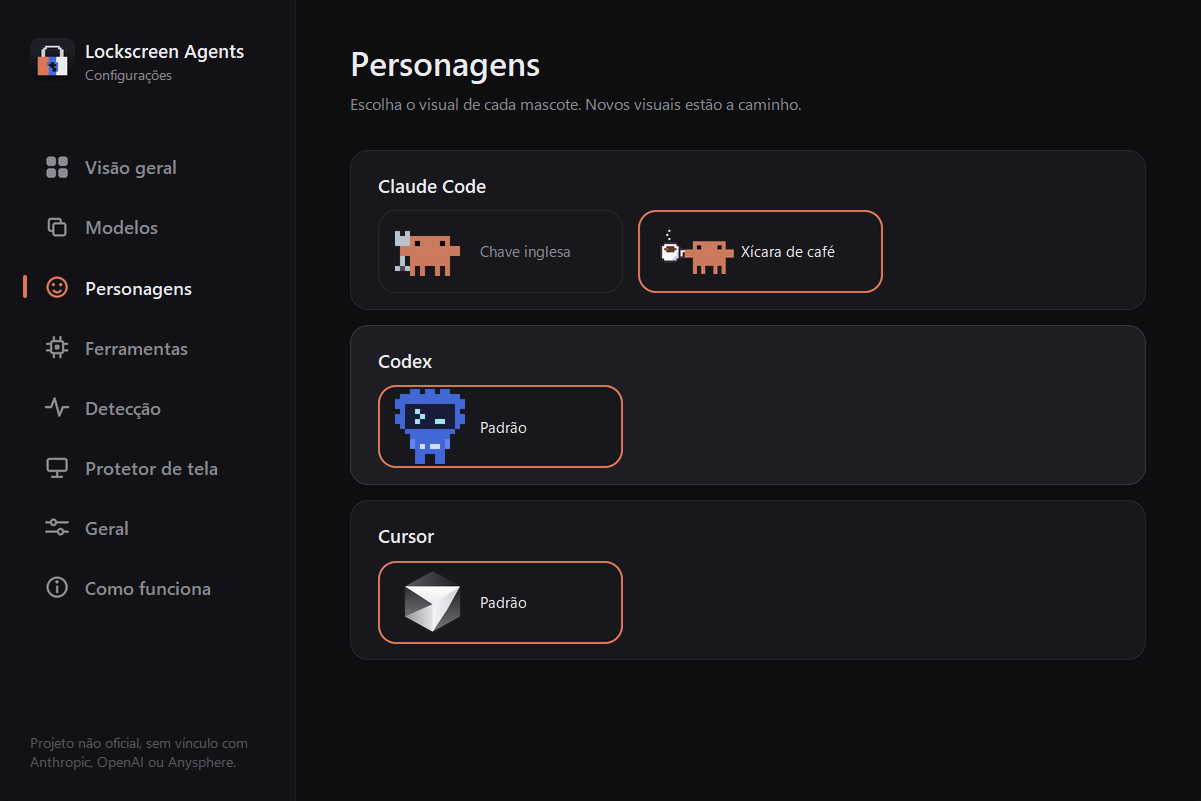
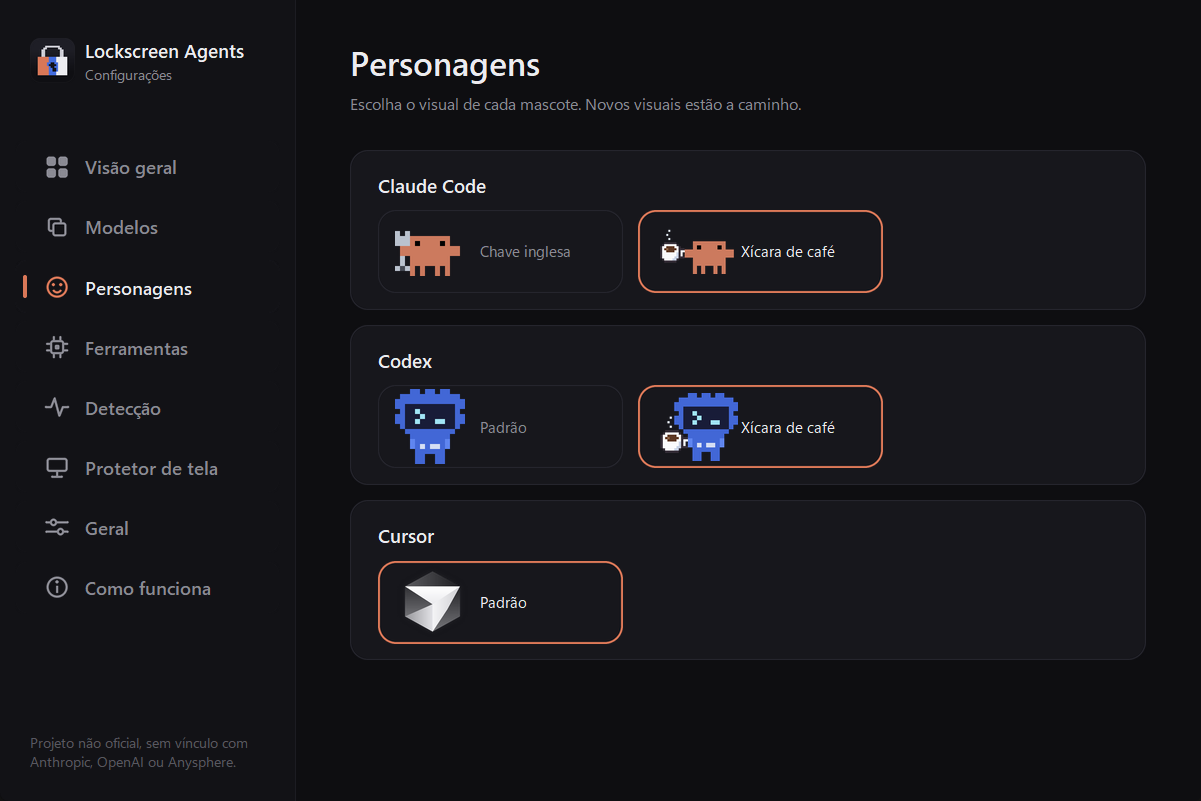
Adiciona o visual de xícara de café para o Codex
- render.py: a xícara passa a ser uma função compartilhada (_draw_cup),
  usada pelo Claude e pelo Codex; o Codex ganha os parâmetros tool e skin
  e uma margem à esquerda para a xícara, que só aparece em uso.
- skins.py, i18n.py: visual "coffee" do Codex, com nome em português e
  inglês; saver.py e settings_ui.py usam o visual escolhido.
- Testes do Codex, README, ARCHITECTURE e captura da página Personagens.

diff --git a/lockscreen_agents/render.py b/lockscreen_agents/render.py
@@ -32,6 +32,23 @@ CODEX_ARM = (96, 134, 240)
 ACCENT = {"claude": CLAUDE_ORANGE, "codex": (122, 160, 255), "cursor": (230, 230, 235)}
 
 
+def _draw_cup(d, hand_x, hand_cy, sub, wiggle):
+    """Xícara de café em pixel-art. A alça fica na altura da mão (`hand_cy`) e encosta no braço
+    (`hand_x`, borda esquerda dele). `sub` é o tamanho de um "pixel" da xícara; `wiggle` (-1 ou 1)
+    é o lado para onde o vapor se inclina."""
+    x0 = hand_x + sub - len(CUP_ART[0]) * sub
+    y0 = int(hand_cy - 5.5 * sub)
+    for y, row in enumerate(CUP_ART):
+        for x, ch in enumerate(row):
+            if ch != ".":
+                d.rectangle([x0 + x * sub, y0 + y * sub, x0 + (x + 1) * sub - 1, y0 + (y + 1) * sub - 1],
+                            fill=CUP_COLORS[ch])
+    cx = x0 + 5 * sub
+    for dx, dyy in ((0, -2), (wiggle, -4), (0, -6)):  # vapor
+        d.rectangle([cx + dx * sub, y0 + dyy * sub, cx + (dx + 1) * sub - 1, y0 + (dyy + 1) * sub - 1],
+                    fill=STEAM)
+
+
 def draw_claude(size=300, step=None, blink=False, tool=True, skin="wrench"):
     """Clawd, o mascote do Claude Code, em pixel art chapada.
 
@@ -67,19 +84,7 @@ def draw_claude(size=300, step=None, blink=False, tool=True, skin="wrench"):
         box(1, 8 + dy, 1, 8 + dy, STEEL_DARK, 0, 0)  # furinho na ponta
 
     if coffee:  # xícara na mão esquerda: o bracinho (desenhado depois) segura a alça
-        sub = max(1, px // 2)  # "pixel" da xícara: meia célula do mascote
-        x0 = ox * px + sub - len(CUP_ART[0]) * sub  # a alça encosta no bracinho
-        y0 = int((ay_l + oy + 1) * px - 5.5 * sub)  # alça na altura do bracinho
-        for y, row in enumerate(CUP_ART):
-            for x, ch in enumerate(row):
-                if ch != ".":
-                    d.rectangle([x0 + x * sub, y0 + y * sub, x0 + (x + 1) * sub - 1, y0 + (y + 1) * sub - 1],
-                                fill=CUP_COLORS[ch])
-        wiggle = 1 if (walking and step % 2) else -1  # vapor que muda de lado a cada passo
-        cx = x0 + 5 * sub
-        for k, (dx, dyy) in enumerate(((0, -2), (wiggle, -4), (0, -6))):
-            d.rectangle([cx + dx * sub, y0 + dyy * sub, cx + (dx + 1) * sub - 1, y0 + (dyy + 1) * sub - 1],
-                        fill=STEAM)
+        _draw_cup(d, ox * px, (ay_l + oy + 1) * px, max(1, px // 2), 1 if (walking and step % 2) else -1)
 
     # corpo
     box(2, 0, 9, 5, CLAUDE_ORANGE)
@@ -100,20 +105,24 @@ def draw_claude(size=300, step=None, blink=False, tool=True, skin="wrench"):
     return img
 
 
-def draw_codex(size=300, step=None, blink=False):
+def draw_codex(size=300, step=None, blink=False, tool=True, skin="default"):
     """Mascote do Codex em pixel art: cabeça de nuvem com tela de terminal (>_),
     corpinho com um >_ no peito, bracinhos e pezinhos.
 
     Grade de 14x15 células. `step` alterna braços e pés (caminhada);
     `blink` apaga o cursor `_` da tela (cursor piscando = trabalhando).
+    `skin` "coffee" põe uma xícara de café na mão esquerda (só com `tool`, ou seja, trabalhando).
     """
-    cols, rows = 14, 15
+    rows = 15
+    coffee = tool and skin == "coffee"
+    ox = 4 if coffee else 0  # a xícara ocupa quatro colunas a mais à esquerda
+    cols = 14 + ox
     px = max(1, size // rows)
     img = Image.new("RGBA", (cols * px, rows * px), (0, 0, 0, 0))
     d = ImageDraw.Draw(img)
 
     def box(x0, y0, x1, y1, color):  # coordenadas inclusivas, em células
-        d.rectangle([x0 * px, y0 * px, (x1 + 1) * px - 1, (y1 + 1) * px - 1], fill=color)
+        d.rectangle([(x0 + ox) * px, y0 * px, (x1 + 1 + ox) * px - 1, (y1 + 1) * px - 1], fill=color)
 
     walking = step is not None
 
@@ -148,6 +157,8 @@ def draw_codex(size=300, step=None, blink=False):
 
     # bracinhos
     ay_l, ay_r = ((10, 11) if step % 2 else (11, 10)) if walking else (10, 10)
+    if coffee:  # xícara na mão esquerda, na frente da nuvem; o bracinho (depois) segura a alça
+        _draw_cup(d, (3 + ox) * px, (ay_l + 1) * px, max(1, px // 2), 1 if (walking and step % 2) else -1)
     box(3, ay_l, 3, ay_l + 1, CODEX_ARM)
     box(10, ay_r, 10, ay_r + 1, CODEX_ARM)
 
@@ -272,7 +283,8 @@ def render(status, step=None, size=(W, H)):
     makers = {
         "claude": lambda: draw_claude(logo, step, tool=state_of(status, "claude") == "working",
                                       skin=settings.get()["skins"]["claude"]),
-        "codex": lambda: draw_codex(logo, step),
+        "codex": lambda: draw_codex(logo, step, tool=state_of(status, "codex") == "working",
+                                    skin=settings.get()["skins"]["codex"]),
         "cursor": lambda: draw_cursor(logo, active=state_of(status, "cursor") == "working", glow=0.6),
     }
     for i, key in enumerate(keys):

diff --git a/tests/test_skins.py b/tests/test_skins.py
@@ -20,7 +20,8 @@ def test_settings_accept_available_skin():
 
 
 def test_settings_reject_unknown_skin():
-    cfg = settings.save({"skins": {"claude": "inexistente", "codex": "coffee"}})
+    # o Cursor ainda não tem visual de café
+    cfg = settings.save({"skins": {"claude": "inexistente", "cursor": "coffee"}})
     assert cfg["skins"] == skins.defaults()
 
 
@@ -35,6 +36,14 @@ def test_coffee_cup_changes_the_drawing():
     assert wrench.tobytes() != coffee.tobytes()
 
 
+def test_codex_coffee_cup_changes_the_drawing():
+    default = render.draw_codex(225, tool=True, skin="default")
+    coffee = render.draw_codex(225, tool=True, skin="coffee")
+    assert default.tobytes() != coffee.tobytes()
+    idle = render.draw_codex(225, tool=False, skin="coffee")
+    assert idle.tobytes() == default.tobytes()  # parado, sem xícara
+
+
 def test_skin_only_shows_while_working():
     idle = render.draw_claude(224, tool=False, skin="coffee")
     assert idle.tobytes() == render.draw_claude(224, tool=False, skin="wrench").tobytes()
@@ -45,3 +54,7 @@ def test_lock_screen_uses_the_chosen_skin():
     before = render.render(status)
     settings.update(skins={"claude": "coffee"})
     assert render.render(status).tobytes() != before.tobytes()
+    working = {"claude": "open", "codex": "working", "cursor": "closed"}
+    before = render.render(working)
+    settings.update(skins={"codex": "coffee"})
+    assert render.render(working).tobytes() != before.tobytes()

diff --git a/lockscreen_agents/skins.py b/lockscreen_agents/skins.py
@@ -1,12 +1,12 @@
 """Visuais (skins) de cada mascote.
 
-Cada ferramenta tem uma lista de visuais; o primeiro é o padrão. Hoje o Claude Code tem dois:
-a chave inglesa e a garrafa de café. Os outros mascotes só têm o visual padrão.
+Cada ferramenta tem uma lista de visuais; o primeiro é o padrão. Hoje o Claude Code tem a chave inglesa
+e a xícara de café, o Codex tem o visual padrão e a xícara de café, e o Cursor só tem o padrão.
 
 Para criar um visual novo:
 
   1. acrescente `{"id": "meu-visual", "available": True}` na lista da ferramenta aqui;
-  2. desenhe-o na função da ferramenta em `render.py` (veja `draw_claude`, parâmetro `skin`);
+  2. desenhe-o na função da ferramenta em `render.py` (veja `draw_claude` e `draw_codex`, parâmetro `skin`);
   3. crie o nome `skin.<ferramenta>.<id>` em português e inglês em `i18n.py`.
 
 A página "Personagens" da janela de configurações mostra todos os visuais disponíveis.
@@ -17,7 +17,10 @@ SKINS = {
         {"id": "wrench", "available": True},
         {"id": "coffee", "available": True},
     ],
-    "codex": [{"id": "default", "available": True}],
+    "codex": [
+        {"id": "default", "available": True},
+        {"id": "coffee", "available": True},
+    ],
     "cursor": [{"id": "default", "available": True}],
 }
 

diff --git a/lockscreen_agents/i18n.py b/lockscreen_agents/i18n.py
@@ -66,7 +66,7 @@ STRINGS = {
         "skins.title": "Personagens",
         "skins.sub": "Escolha o visual de cada mascote. Novos visuais estão a caminho.",
         "skin.claude.wrench": "Chave inglesa", "skin.claude.coffee": "Xícara de café",
-        "skin.codex.default": "Padrão", "skin.cursor.default": "Padrão",
+        "skin.codex.default": "Padrão", "skin.codex.coffee": "Xícara de café", "skin.cursor.default": "Padrão",
         # ferramentas
         "tools.title": "Ferramentas",
         "tools.sub": "Escolha quais assistentes aparecem nos mascotes.",
@@ -167,7 +167,7 @@ STRINGS = {
         "skins.title": "Characters",
         "skins.sub": "Pick each mascot's look. New looks are on the way.",
         "skin.claude.wrench": "Wrench", "skin.claude.coffee": "Coffee cup",
-        "skin.codex.default": "Default", "skin.cursor.default": "Default",
+        "skin.codex.default": "Default", "skin.codex.coffee": "Coffee cup", "skin.cursor.default": "Default",
         "tools.title": "Tools",
         "tools.sub": "Choose which assistants show up as mascots.",
         "tools.claude.desc": "Terminal and desktop app. Watches your user's .claude folder.",

diff --git a/lockscreen_agents/settings_ui.py b/lockscreen_agents/settings_ui.py
@@ -218,7 +218,7 @@ def mascot(key, size, skin=None):
 
     def make():
         img = {"claude": lambda: draw_claude(size * 2, tool=True, skin=skin),
-               "codex": lambda: draw_codex(size * 2),
+               "codex": lambda: draw_codex(size * 2, skin=skin),
                "cursor": lambda: draw_cursor(size * 2, active=True, glow=0.4)}[key]()
         w, h = img.width / 2, img.height / 2  # metade do tamanho desenhado (mais nítido)
         k = min(1.0, size * 1.1 / w)  # visuais largos (xícara) encolhem para caber na lista

diff --git a/lockscreen_agents/saver.py b/lockscreen_agents/saver.py
@@ -29,7 +29,9 @@ SPECS = [
     ("claude", "Claude Code",
      lambda size, step, blink: draw_claude(size, step=step, blink=blink, skin=settings.get()["skins"]["claude"]),
      True),
-    ("codex", "Codex", lambda size, step, blink: draw_codex(size, step=step, blink=blink), True),
+    ("codex", "Codex",
+     lambda size, step, blink: draw_codex(size, step=step, blink=blink, skin=settings.get()["skins"]["codex"]),
+     True),
     ("cursor", "Cursor", lambda size, step, blink: draw_cursor(size), False),
 ]
 

diff --git a/README.md b/README.md
@@ -33,7 +33,7 @@ Clique duas vezes no ícone da bandeja (ou use **Configurações…** no menu). 
 ![Janela de configurações: visão geral com prévia ao vivo](docs/settings-overview.png)
 
 - **Modelos**: o visual da tela. Hoje existe o modelo **Mascotes**; os próximos aparecem como “em breve” (e há um botão para sugerir o seu).
-- **Personagens**: o visual de cada mascote. O Claude Code já pode segurar uma **xícara de café** (com vapor) em vez da chave inglesa; mais visuais estão a caminho.
+- **Personagens**: o visual de cada mascote. O Claude Code e o Codex já podem segurar uma **xícara de café** (com vapor); mais visuais estão a caminho.
 - **Ferramentas**: escolha quais mascotes aparecem (Claude Code, Codex, Cursor).
 - **Detecção**: tempo até ficar ocioso, tolerância para "fechado" e se a janela em foco conta como em uso.
 - **Protetor de tela**: ligar, abrir após N minutos, bloquear o PC ao fechar.
@@ -152,7 +152,7 @@ Mascots on the Windows lock screen and screensaver that show at a glance which A
 
 - **Lock screen**: renders an image with each tool's state and sets it as your lock screen whenever the state changes. Press `Win + L` to see it.
 - **Animated screensaver**: after a few idle minutes, a fullscreen scene with the animated mascots. Any key or mouse move closes it.
-- **Settings window**: modern and animated, with a live lock screen preview. Browse the templates (more are coming soon), pick each mascot's look (Claude Code can hold a coffee cup), see live how detection works, pick which tools show up, tune the detection timings, configure the screensaver and switch language (Portuguese/English). Everything saves instantly.
+- **Settings window**: modern and animated, with a live lock screen preview. Browse the templates (more are coming soon), pick each mascot's look (Claude Code and Codex can hold a coffee cup), see live how detection works, pick which tools show up, tune the detection timings, configure the screensaver and switch language (Portuguese/English). Everything saves instantly.
 - **Tray icon**: double-click to open the settings; the menu also pauses, refreshes the lock screen and tests the screensaver.
 - Starts with Windows.
 

diff --git a/docs/ARCHITECTURE.md b/docs/ARCHITECTURE.md
@@ -84,7 +84,7 @@ As regras (em uso, ocioso, fechado) e seus tempos ficam em `detector.get_states`
 **Um visual novo para um mascote** (como a xícara de café do Claude)
 
 1. Em `skins.py`, acrescente `{"id": "meu-visual", "available": True}` na lista da ferramenta.
-2. Desenhe-o em `render.py`: `draw_claude` tem o parâmetro `skin` (grade de células, em pixel-art); o visual só aparece enquanto a ferramenta está em uso.
+2. Desenhe-o em `render.py`: `draw_claude` e `draw_codex` têm o parâmetro `skin` (grade de células, em pixel-art); o visual só aparece enquanto a ferramenta está em uso.
 3. Crie o nome `skin.<ferramenta>.<id>` em português e inglês em `i18n.py`; um teste confere.
 4. Ele aparece sozinho na página **Personagens** e vale na lock screen e no protetor.
 
